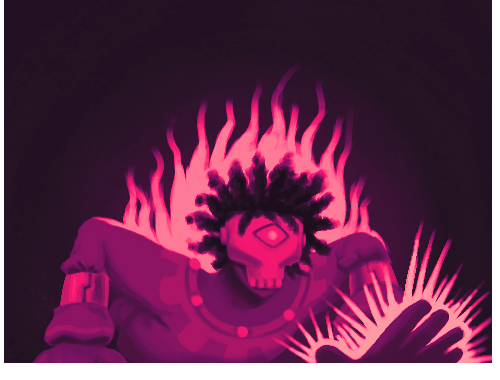
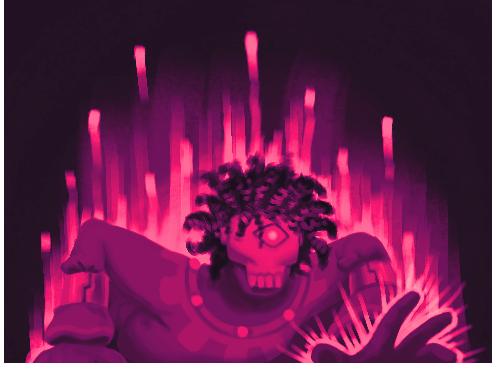
New Pictures for ChaseDestiny and Overexertion

diff --git a/theUnchainedMod/src/main/java/theUnchainedMod/cards/ChaseDestiny.java b/theUnchainedMod/src/main/java/theUnchainedMod/cards/ChaseDestiny.java
@@ -13,7 +13,7 @@ import static theUnchainedMod.DefaultMod.makeCardPath;
 public class ChaseDestiny extends AbstractDynamicCard {
 
     public static final String ID = DefaultMod.makeID(ChaseDestiny.class.getSimpleName());
-    public static final String IMG = makeCardPath("ThreadOfAriadne.png");
+    public static final String IMG = makeCardPath("ChaseDestiny.png");
     private static final CardRarity RARITY = CardRarity.RARE;
     private static final CardTarget TARGET = CardTarget.SELF;
     private static final CardType TYPE = CardType.SKILL;
